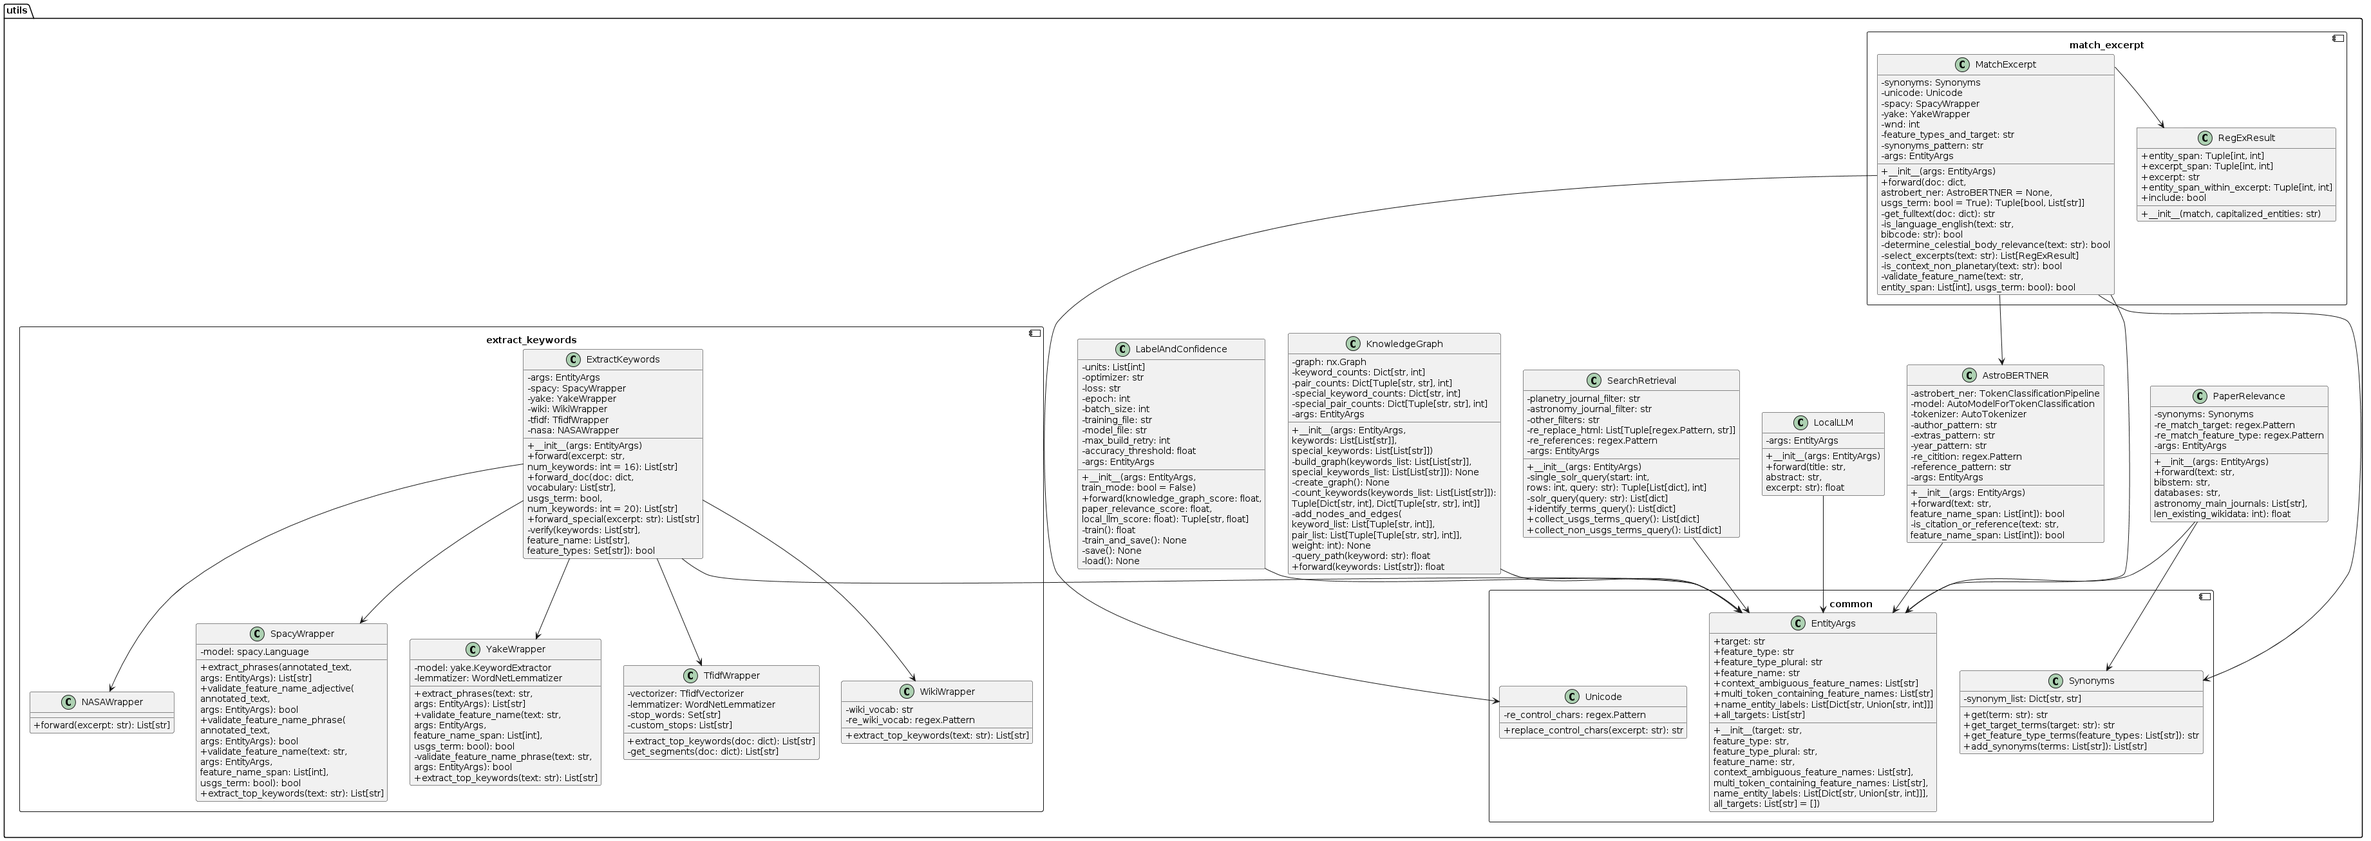
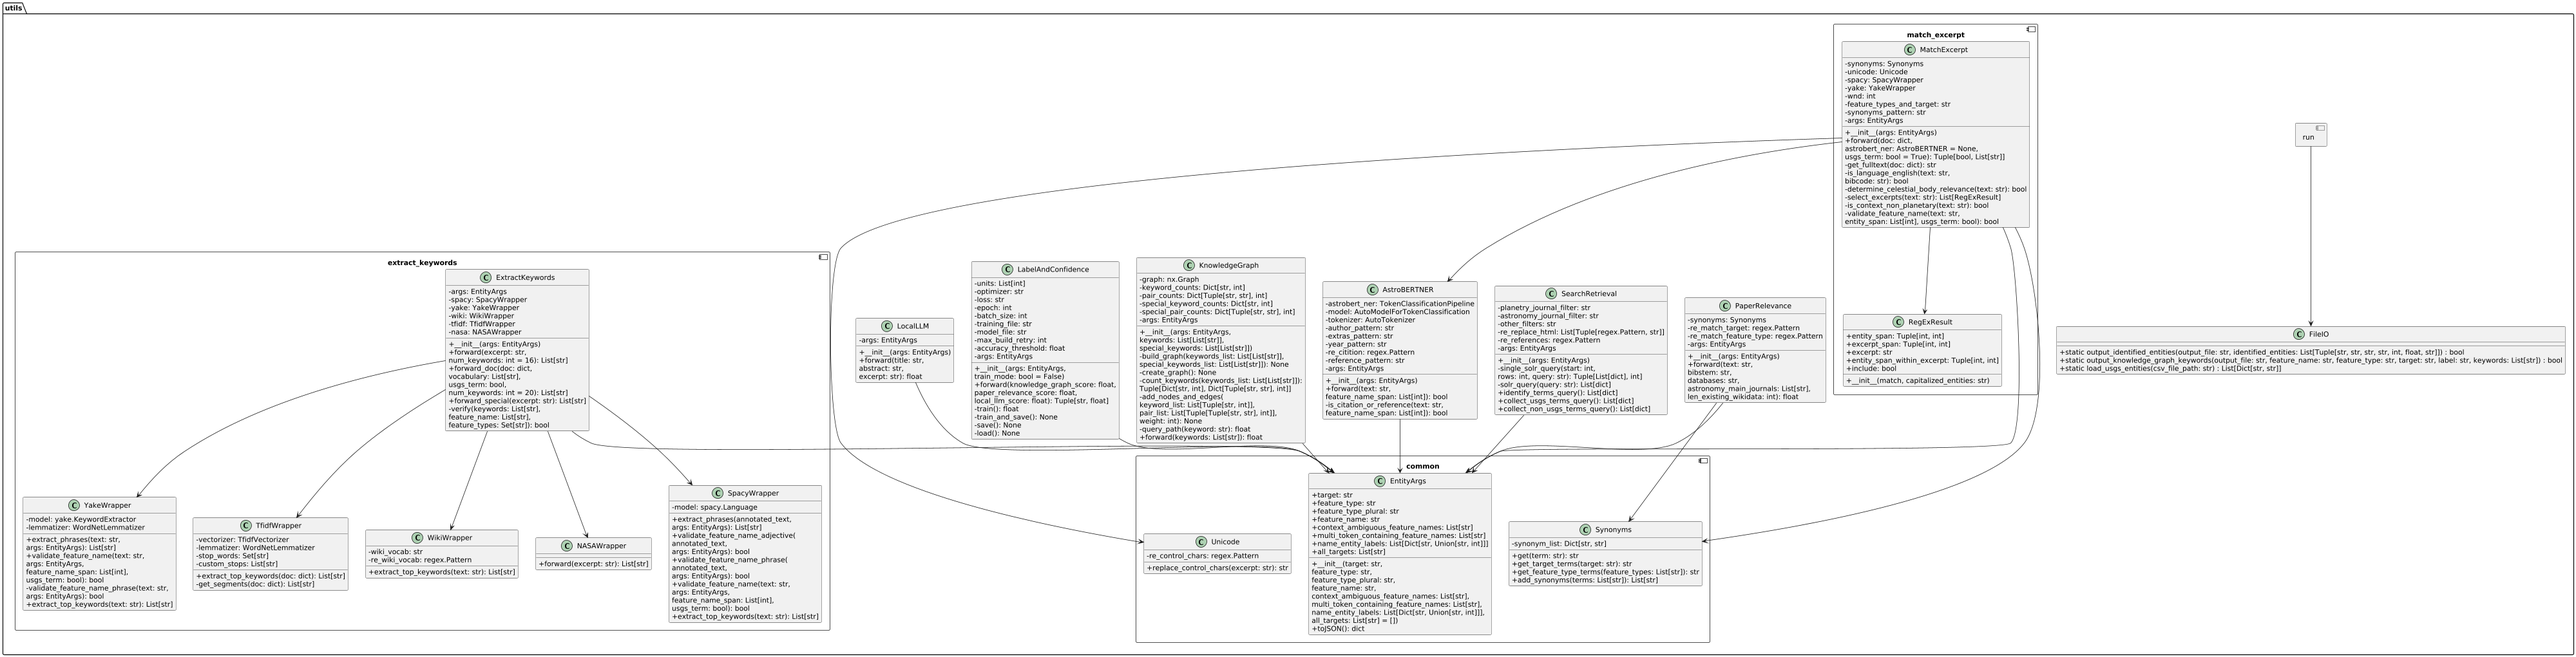
added unittest to comeback to 100 percent coverage

diff --git a/run.py b/run.py
@@ -1,10 +1,7 @@
 import sys
 import os
-import csv
-import re
-from typing import List, Tuple, Dict
+from typing import List, Tuple
 from datetime import datetime, timedelta
-from collections import Counter
 
 from adsputils import setup_logging, load_config
 
@@ -13,6 +10,7 @@ import argparse
 from adsplanetnamepipe import tasks
 from adsplanetnamepipe.models import NamedEntityLabel
 from adsplanetnamepipe.utils.common import PLANETARYNAMES_PIPELINE_ACTION, EntityArgs
+from adsplanetnamepipe.utils.file_io import FileIO
 
 proj_home = os.path.realpath(os.path.dirname(__file__))
 config = load_config(proj_home=proj_home)
@@ -47,93 +45,6 @@ def get_default_filename(action_type: str) -> str:
     elif action_type == PLANETARYNAMES_PIPELINE_ACTION.retrieve_identified_entities:
         return f"./identified_entities_{timestamp}.csv"
     return ''
-
-
-def output_identified_entities(output_file: str, identified_entities: List[Tuple[str, str, str, str, int, float, str]]) -> bool:
-    """
-    writes identified entities to a CSV file
-
-    :param output_file: str, the file path to write the CSV
-    :param identified_entities: list of tuples, each containing:
-                                - bibcode: str, the bibcode of the entity
-                                - target: str, the target entity
-                                - feature_type: str, the feature type entity
-                                - feature_name: str, the feature name entity
-                                - feature_id: int, the feature ID from the database
-                                - confidence_score: float, the confidence score
-                                - date: str, the date in 'YYYY-MM-DD HH:MM:SS' format
-    :return: bool, True if the file was written successfully, False otherwise
-    """
-    try:
-        # Count the number of instances for each unique combination of bibcode, and feature ID
-        counts = Counter((row[0], row[4]) for row in identified_entities)
-
-        # Prepare the data for writing to the CSV
-        aggregated_data = [
-            {
-                'bibcode': bibcode,
-                'feature_id': feature_id,
-                'feature_name': next(row[3] for row in identified_entities if row[0] == bibcode and row[4] == feature_id),
-                'feature_type': next(row[2] for row in identified_entities if row[0] == bibcode and row[4] == feature_id),
-                'target': next(row[1] for row in identified_entities if row[0] == bibcode and row[4] == feature_id),
-                'num_instances': count
-            }
-            for (bibcode, feature_id), count in counts.items()
-        ]
-
-        file_exists = os.path.isfile(output_file)
-        with open(output_file, mode='a', newline='', encoding='utf-8') as csvfile:
-            writer = csv.writer(csvfile)
-
-            # write the header only if the file is new
-            if not file_exists:
-                writer.writerow(['Feature ID', 'Feature Name', 'Feature Type', 'Target', 'Bibcode', 'Number of Instances'])
-
-            # Write each identified entity to the file
-            for entity in aggregated_data:
-                writer.writerow([
-                    entity['feature_id'],
-                    entity['feature_name'],
-                    entity['feature_type'],
-                    entity['target'],
-                    entity['bibcode'],
-                    entity['num_instances']
-                ])
-            return True
-
-    except Exception as e:
-        logger.error(f"Failed to write identified entities to '{output_file}': {e}")
-        return False
-
-
-def output_knowledge_graph_keywords(output_file: str, feature_name: str, feature_type: str, target: str, label: str, keywords: List[str]) -> bool:
-    """
-    writes the keywords to a CSV file, appending to the file if it already exists
-
-    :param output_file: str, the file path to write the CSV
-    :param feature_name: str, the feature name entity
-    :param feature_type: the feature type entity
-    :param target: str, the target entity
-    :param label: str, named entity label (e.g., planetary, unknown)
-    :param keywords: list of keywords to write to the file
-    :return: bool, True if writing is successful, False otherwise
-    """
-    try:
-        file_exists = os.path.isfile(output_file)
-        with open(output_file, mode='a', newline='', encoding='utf-8') as csvfile:
-            writer = csv.writer(csvfile)
-
-            # write the header only if the file is new
-            if not file_exists:
-                writer.writerow(['Feature Name', 'Feature Type', 'Target', 'Label', 'Keywords'])
-
-            for keyword in keywords:
-                writer.writerow([feature_name, feature_type, target, label, keyword])
-
-        return True
-    except Exception as e:
-        logger.error(f"Failed to write keywords to CSV: {str(e)}")
-        return False
 
 
 def process_a_feature_name(feature_name: str, target: str, feature_type: str, action_type: str,
@@ -211,50 +122,13 @@ def process_a_feature_name(feature_name: str, target: str, feature_type: str, ac
                                                    target_entity=target,
                                                    named_entity_label=named_entity_label)
         if keywords:
-            if output_knowledge_graph_keywords(output_file, feature_name, feature_type, target, named_entity_label, keywords):
+            if FileIO.output_knowledge_graph_keywords(output_file, feature_name, feature_type, target, named_entity_label, keywords):
                 logger.info(f"Added {len(keywords)} keywords for feature name '{feature_name}', feature type '{feature_type}', target '{target}', and label '{named_entity_label}' to '{output_file}'.")
             else:
                 logger.error(f"Failed to add {len(keywords)} keywords for feature name '{feature_name}', feature type '{feature_type}', target '{target}', and label '{named_entity_label}' to '{output_file}'.")
         else:
             logger.info(
                 f"No keywords to add for feature name '{feature_name}', feature type '{feature_type}', target '{target}', and label '{named_entity_label}'.")
-
-
-def read_updated_usgs_gazetteer(csv_file_path: str) -> List[Dict[str, str]]:
-    """
-    reads the updated usgs entities
-    containing five columns: Feature_ID,Clean_Feature_Name,Target,Feature_Type,Approval_Date,Approval_Status
-
-    :param csv_file_path: path to the CSV file.
-    :return: list of dictionaries, each containing data from one row.
-    """
-    year_pattern = re.compile(r'\b\d{4}\b')
-    data = []
-    try:
-        with open(csv_file_path, newline='', encoding='utf-8-sig') as csvfile:
-            reader = csv.DictReader(csvfile)
-            # there are lots of white space in the header line coming from the Planetary Name website
-            # Feature ID	Clean          Feature Name	Target	Feature Type	Approval          Status	Approval Date
-            # skip their header
-            old_header = next(reader)
-            # to use these as column headers
-            new_header = ['entity_id', 'feature_name', 'target', 'feature_type', 'approval_status', 'approval_date']
-            for row in reader:
-                # transform keys first
-                row = {new_key: row[old_key] for new_key, old_key in zip(new_header, old_header)}
-                # now process the row
-                if row['approval_status'].lower() == 'approved':
-                    # extract year from `approval_date`
-                    match = year_pattern.search(row['approval_date'])
-                    row['approval_date'] = match.group(0) if match else row['approval_date']
-                    # split `feature_type` to have separate singular and plural (if any)
-                    row['feature_type'], row['feature_type_plural'] = [x.strip() for x in (row['feature_type'].split(',') + [''])[:2]]
-                    data.append(row)
-    except FileNotFoundError:
-        logger.error(f"File not found: {csv_file_path}. Please check the path and try again.")
-    except Exception as e:
-        logger.error(f"An error occurred while reading the file: {e}")
-    return data
 
 
 def import_usgs_update(usgs_update_file: str):
@@ -264,7 +138,7 @@ def import_usgs_update(usgs_update_file: str):
 
     :param usgs_update_file: str, path to the USGS update CSV file
     """
-    data = read_updated_usgs_gazetteer(usgs_update_file)
+    data = FileIO.load_usgs_entities(usgs_update_file)
     if data:
         entity_id = {int(row['entity_id']) for row in data}
         entity_ids = set(app.get_entity_ids())
@@ -396,7 +270,7 @@ if __name__ == '__main__':
 
             if results:
                 output_file = args.output_file if args.output_file else get_default_filename(action_type)
-                if output_identified_entities(output_file, results):
+                if FileIO.output_identified_entities(output_file, results):
                     logger.info(f"Added {len(results)} identified entities for feature name '{feature_name}', feature type '{current_feature_type}', target '{current_target}' to '{output_file}'.")
                 else:
                     logger.error(f"Failed to add {len(results)} identified entities for feature name '{feature_name}', feature type '{current_feature_type}', target '{current_target}' to '{output_file}'.")

diff --git a/adsplanetnamepipe/tests/unittests/test_identify.py b/adsplanetnamepipe/tests/unittests/test_identify.py
@@ -96,5 +96,37 @@ class TestCollectKnowldegeBase(unittest.TestCase):
         self.assertEqual(identified_doc[0].special_keywords, special_keywords_forward)
 
 
+    def test_identify_no_special_keywords(self):
+        """ test identify and verify that currently nasa concept is not operational """
+
+        keywords_forward = ['ripple', 'mars', 'discovery', 'eolian', 'meridiani planum', 'crater', 'formed', 'evidence',
+                            'past', 'dune', 'bed']
+
+        self.identify_planetary_entities.search_retrieval.identify_terms_query = MagicMock(return_value=[solrdata.doc_1])
+        self.identify_planetary_entities.match_excerpt.forward = MagicMock(return_value=(True, [excerpts.doc_1_excerpts[0]['excerpt']]))
+        self.identify_planetary_entities.extract_keywords.forward = MagicMock(return_value=keywords_forward)
+        self.identify_planetary_entities.knowledge_graph_positive.forward = MagicMock(return_value=0.7)
+        self.identify_planetary_entities.knowledge_graph_negative.forward = MagicMock(return_value=0.3)
+
+        self.identify_planetary_entities.get_knowledge_graph_score = MagicMock(return_value=0.7)
+        self.identify_planetary_entities.get_paper_relevance_score = MagicMock(return_value=0.8)
+        self.identify_planetary_entities.get_local_llm_score = MagicMock(return_value=0.7)
+
+        result = self.identify_planetary_entities.identify()
+
+        # Assert the expected behavior
+        self.assertEqual(len(result), 1)
+        history_entry, identified_doc = result[0]
+        self.assertIsInstance(history_entry, NamedEntityHistory)
+        self.assertEqual(history_entry.feature_name_entity, 'Rayleigh')
+        self.assertEqual(history_entry.feature_type_entity, 'Crater')
+        self.assertEqual(history_entry.target_entity, 'Mars')
+        self.assertEqual(len(identified_doc), 1)
+        self.assertIsInstance(identified_doc[0], NamedEntity)
+        self.assertEqual(identified_doc[0].keywords_item_id, 1)
+        self.assertEqual(identified_doc[0].excerpt, excerpts.doc_1_excerpts[0]['excerpt'])
+        self.assertEqual(identified_doc[0].keywords, keywords_forward)
+        self.assertEqual(identified_doc[0].special_keywords, [])
+
 if __name__ == '__main__':
     unittest.main()

diff --git a/adsplanetnamepipe/tests/unittests/test_tasks.py b/adsplanetnamepipe/tests/unittests/test_tasks.py
@@ -129,5 +129,41 @@ class TestPlanetaryNomenclature(unittest.TestCase):
         self.assertFalse(result)
         mock_logger.error.assert_called_once_with(f"Unhandled action: {PLANETARYNAMES_PIPELINE_ACTION(mock_task['action_type'])}")
 
+    def test_entity_args_serialization_deserialization(self):
+        """ test serialization and deserialization of EntityArgs """
+
+        # serialize
+        serialized_data = self.args.toJSON()
+
+        # expected serialized data
+        expected_serialized_data = {
+            "target": "Mars",
+            "feature_type": "Crater",
+            "feature_type_plural": "Craters",
+            "feature_name": "Rayleigh",
+            "context_ambiguous_feature_names": ["asteroid", "main belt asteroid", "Moon", "Mars"],
+            "multi_token_containing_feature_names": ["Rayleigh A", "Rayleigh B", "Rayleigh C", "Rayleigh D"],
+            "name_entity_labels": [{'label': 'planetary', 'value': 1}, {'label': 'non planetary', 'value': 0}],
+            "timestamp": "2000-01-01",
+            "all_targets": ["Mars", "Mercury", "Moon", "Venus"]
+        }
+
+        self.assertEqual(serialized_data, expected_serialized_data)
+
+        # deserialize
+        deserialized_args = EntityArgs(**serialized_data)
+
+        # assert that deserialized object matches the original instance
+        self.assertEqual(deserialized_args.target, self.args.target)
+        self.assertEqual(deserialized_args.feature_type, self.args.feature_type)
+        self.assertEqual(deserialized_args.feature_type_plural, self.args.feature_type_plural)
+        self.assertEqual(deserialized_args.feature_name, self.args.feature_name)
+        self.assertEqual(deserialized_args.context_ambiguous_feature_names, self.args.context_ambiguous_feature_names)
+        self.assertEqual(deserialized_args.multi_token_containing_feature_names, self.args.multi_token_containing_feature_names)
+        self.assertEqual(deserialized_args.name_entity_labels, self.args.name_entity_labels)
+        self.assertEqual(deserialized_args.timestamp, self.args.timestamp)
+        self.assertEqual(deserialized_args.all_targets, self.args.all_targets)
+
+
 if __name__ == '__main__':
     unittest.main()

diff --git a/adsplanetnamepipe/tests/unittests/test_search_retrieval.py b/adsplanetnamepipe/tests/unittests/test_search_retrieval.py
@@ -113,6 +113,40 @@ class TestSearchRetrieval(unittest.TestCase):
         self.assertEqual(len(docs), 0)
 
     @patch('adsplanetnamepipe.utils.search_retrieval.SearchRetrieval.solr_query')
+    def test_identify_terms_query(self, mock_solr_query):
+        """ test identify_terms_query which returns the result of the query for identifying entities """
+
+        expected_query = f'full:(="Rayleigh") full:("Mars") full:("Crater" OR "Craters") '
+        expected_query += f'{self.search_retrieval.astronomy_journal_filter} {self.search_retrieval.other_usgs_filters} '
+        expected_query += f'{self.search_retrieval.date_time_filter}'
+
+        expected_result = [ {'bibcode': '2024arXiv240320332S'}, {'bibcode': '2024arXiv240320323T'}]
+
+        mock_solr_query.return_value = expected_result
+        result = self.search_retrieval.identify_terms_query()
+
+        mock_solr_query.assert_called_once_with(expected_query)
+        self.assertEqual(result, expected_result)
+
+    @patch('adsplanetnamepipe.utils.search_retrieval.SearchRetrieval.solr_query')
+    def test_identify_terms_query_no_docs(self, mock_solr_query):
+        """ test identify_terms_query when no documents are found or an error occurs """
+
+        expected_query = f'full:("Rayleigh") full:("Mars") full:("Crater" OR "Craters")  '
+        expected_query += f'{self.search_retrieval.astronomy_journal_filter} {self.search_retrieval.other_usgs_filters} '
+        expected_query += f'{self.search_retrieval.date_time_filter}'
+
+        # case 1: no documents found
+        mock_solr_query.return_value = []
+        result = self.search_retrieval.identify_terms_query()
+        self.assertEqual(result, [])
+
+        # case 2: error occurs
+        mock_solr_query.return_value = []
+        result = self.search_retrieval.identify_terms_query()
+        self.assertEqual(result, [])
+
+    @patch('adsplanetnamepipe.utils.search_retrieval.SearchRetrieval.solr_query')
     def test_collect_usgs_terms_query(self, mock_solr_query):
         """ test collect_usgs_terms_query which returns the result of query for the collect step positive """
 

diff --git a/adsplanetnamepipe/utils/search_retrieval.py b/adsplanetnamepipe/utils/search_retrieval.py
@@ -133,7 +133,7 @@ class SearchRetrieval():
 
         :return: list of document dictionaries
         """
-        query = f'full:(="{self.args.feature_name}") full:("{self.args.target}") full:("{self.feature_types_ored}")'
+        query = f'full:(="{self.args.feature_name}") full:("{self.args.target}") full:("{self.feature_types_ored}") '
         query += f'{self.astronomy_journal_filter} {self.other_usgs_filters} {self.date_time_filter}'
         return self.solr_query(query)
 

diff --git a/adsplanetnamepipe/utils/extract_keywords.py b/adsplanetnamepipe/utils/extract_keywords.py
@@ -392,7 +392,8 @@ class NASAWrapper():
             else:
                 logger.error(f"From Nasa Concept status code {response.status_code}")
         except RequestException as e:
-            logger.info('Not hosted by ADS.')
+            # logger.info('Not hosted by ADS.')
+            pass
         return []
 
 

diff --git a/adsplanetnamepipe/utils/common.py b/adsplanetnamepipe/utils/common.py
@@ -80,7 +80,7 @@ class EntityArgs():
         self.timestamp = timestamp
         self.all_targets = all_targets
 
-    def toJSON(self):
+    def toJSON(self) -> dict:
         """
         convert the EntityArgs instance to a JSON-compatible dictionary
 
